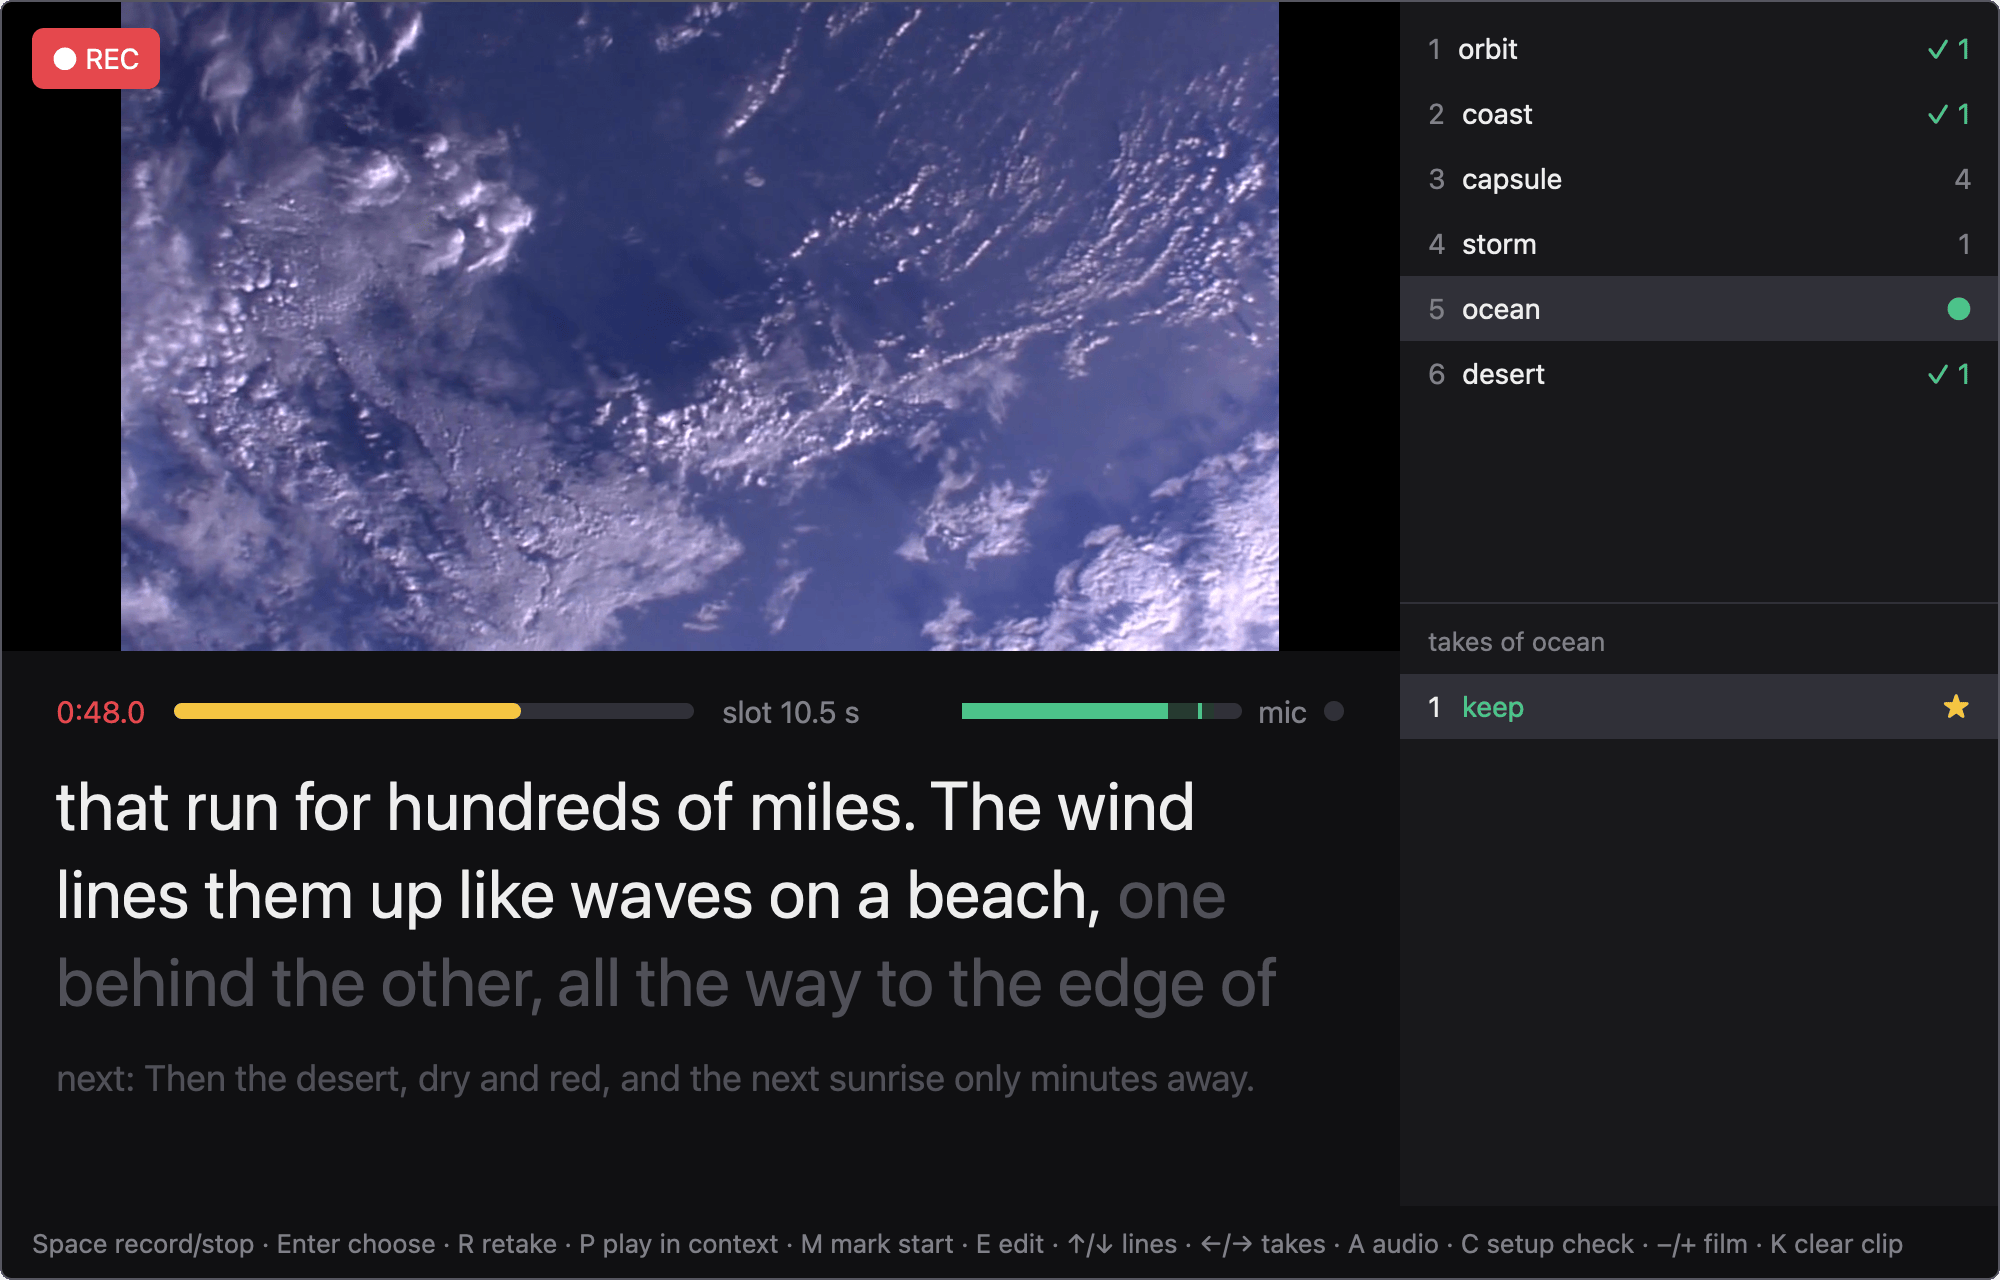
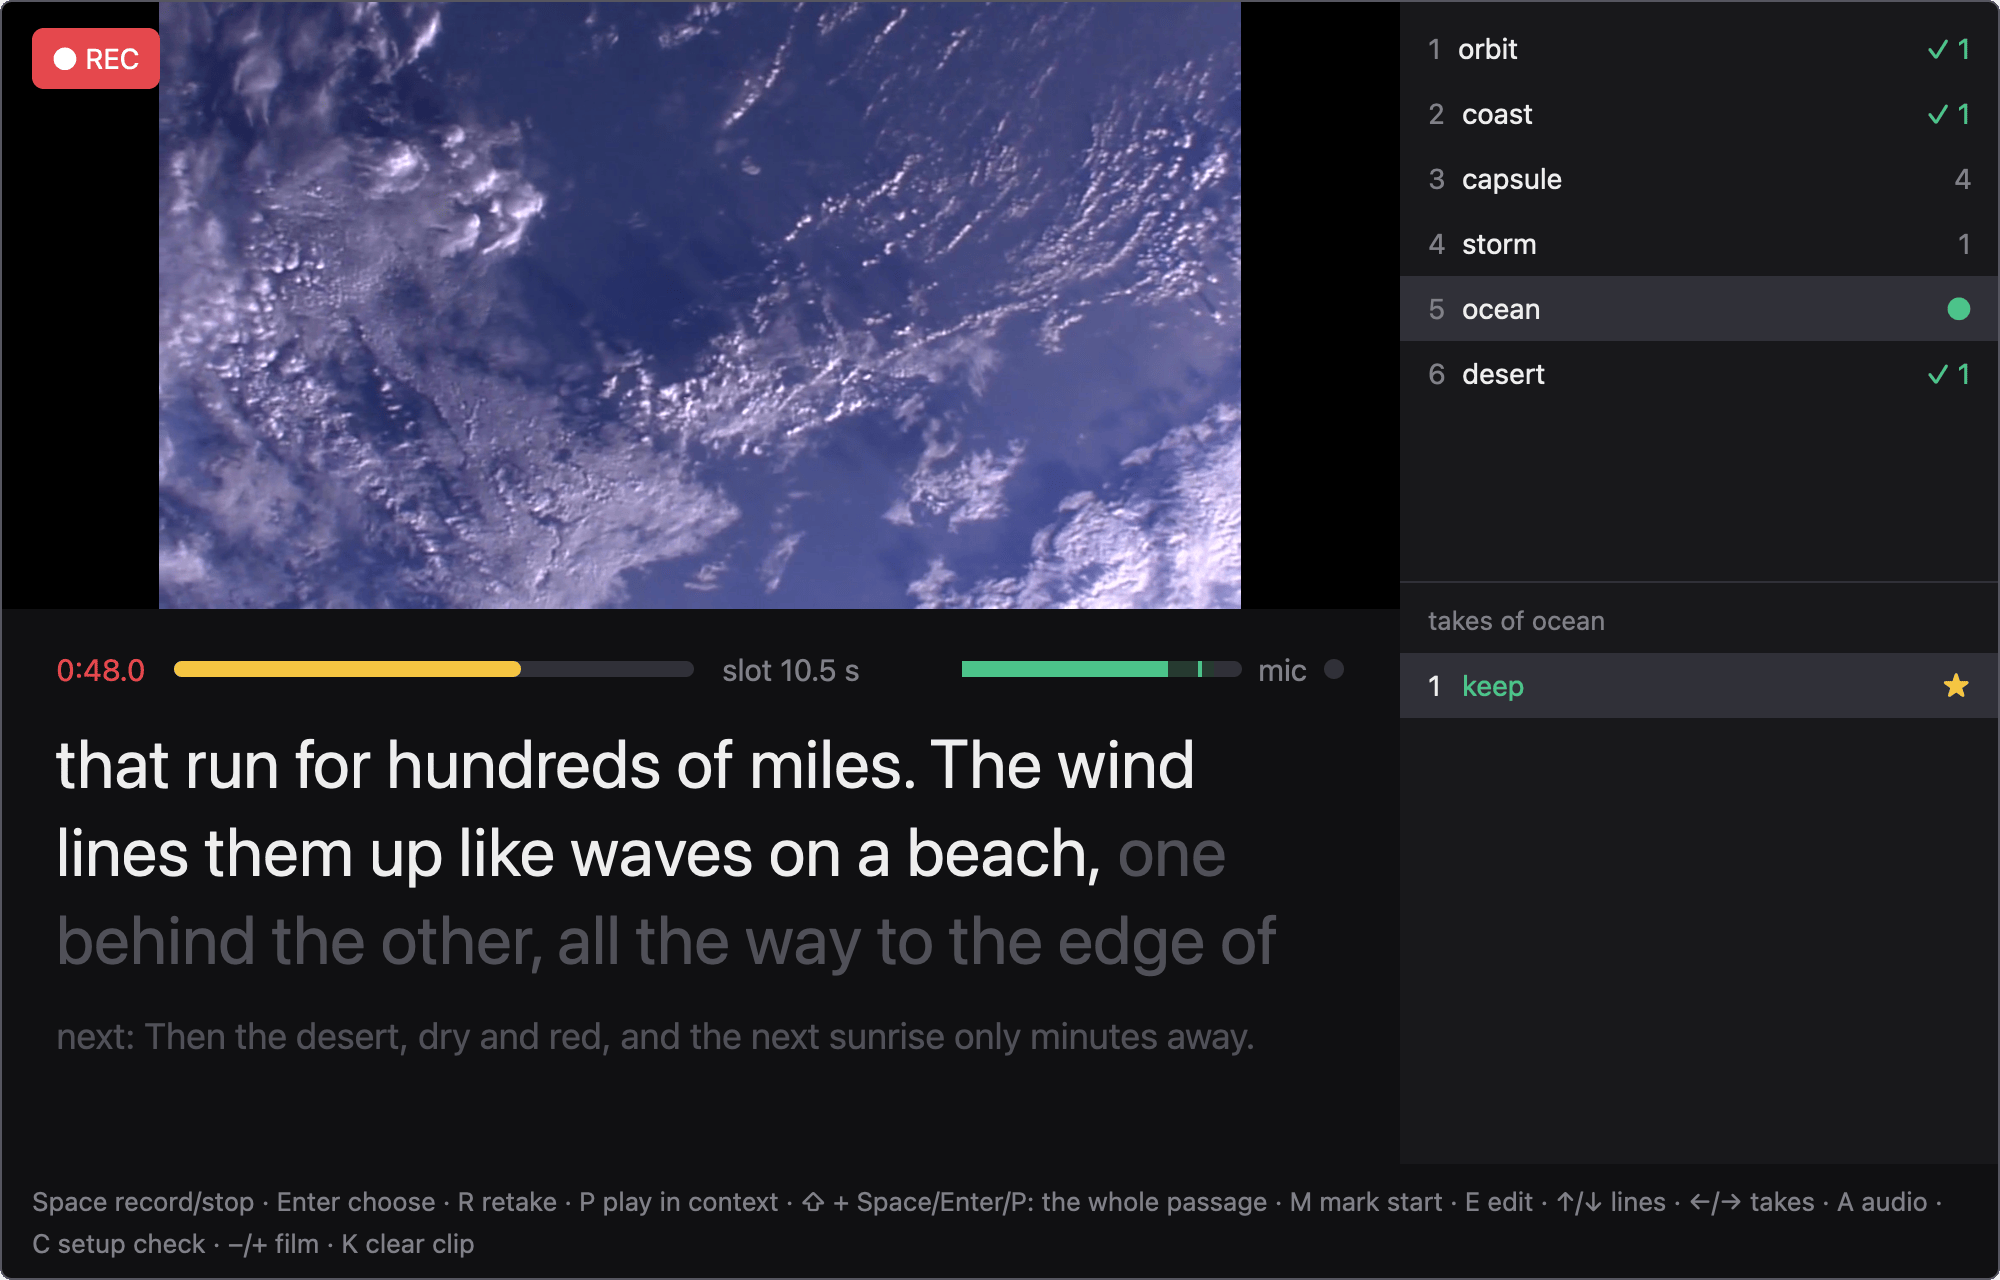
docs: regenerate the window's screenshots for the passage key hints
The key hints gained the Shift keys and take two rows in the 1000 px
window of the hero image, the loop and the social preview, so the loop's
close-up of the take list is cut 10.5 px higher. Made by `mise run
screenshots`; the other images came out unchanged.

diff --git a/crates/takewise/src/window/screenshots.rs b/crates/takewise/src/window/screenshots.rs
@@ -157,8 +157,10 @@ const LOOP_TAKES: [usize; 2] = [4, 5];
 /// The loop's width in pixels.
 const LOOP_WIDTH: u32 = 1000;
 /// The loop's close-up of the takes and their verdicts, in logical pixels
-/// of a [`HERO`] window: the side column's list of takes.
-const CLOSE_UP: (f32, f32, f32, f32) = (700.0, 304.0, 300.0, 128.0);
+/// of a [`HERO`] window: the side column's list of takes, which begins
+/// halfway down the column above the key hints (two rows of them at this
+/// width).
+const CLOSE_UP: (f32, f32, f32, f32) = (700.0, 293.5, 300.0, 128.0);
 
 /// Runs `takewise screenshots <work> <out>`.
 pub fn main(args: &[OsString]) -> ExitCode {
